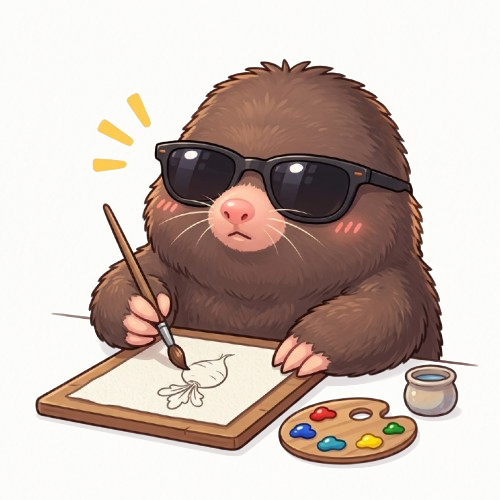
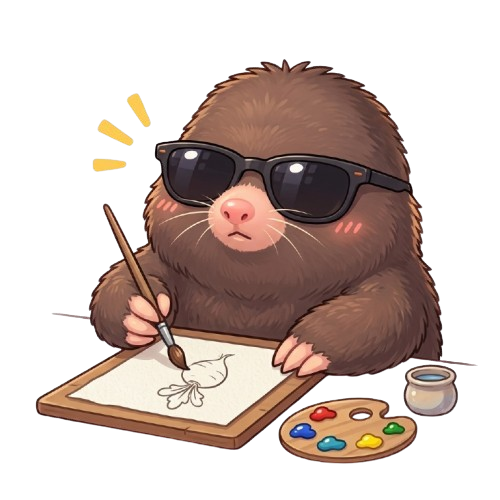
Add files via upload

diff --git a/index.html b/index.html
@@ -3650,7 +3650,8 @@ function saveSettingStartDate() {
         const nextDate = parseLocalDate(injs[0].date);
         nextDate.setDate(nextDate.getDate() + interval);
         const today = new Date(now.getFullYear(), now.getMonth(), now.getDate());
-        const cd = Math.max(0, Math.ceil((nextDate.getTime() - today.getTime()) / 86400000));
+        const nextOnly = new Date(nextDate.getFullYear(), nextDate.getMonth(), nextDate.getDate());
+      const cd = Math.max(0, Math.round((nextOnly.getTime() - today.getTime()) / 86400000));
         $txt('home-inj-countdown', cd); $txt('inj-countdown-days', cd);$txt('inj-next-date-label', `${nextDate.getMonth()+1}月${nextDate.getDate()}日 (${weekMap[nextDate.getDay()]})`);
       } else {
         const nextDate = new Date(now.getFullYear(), now.getMonth(), now.getDate() + interval);
